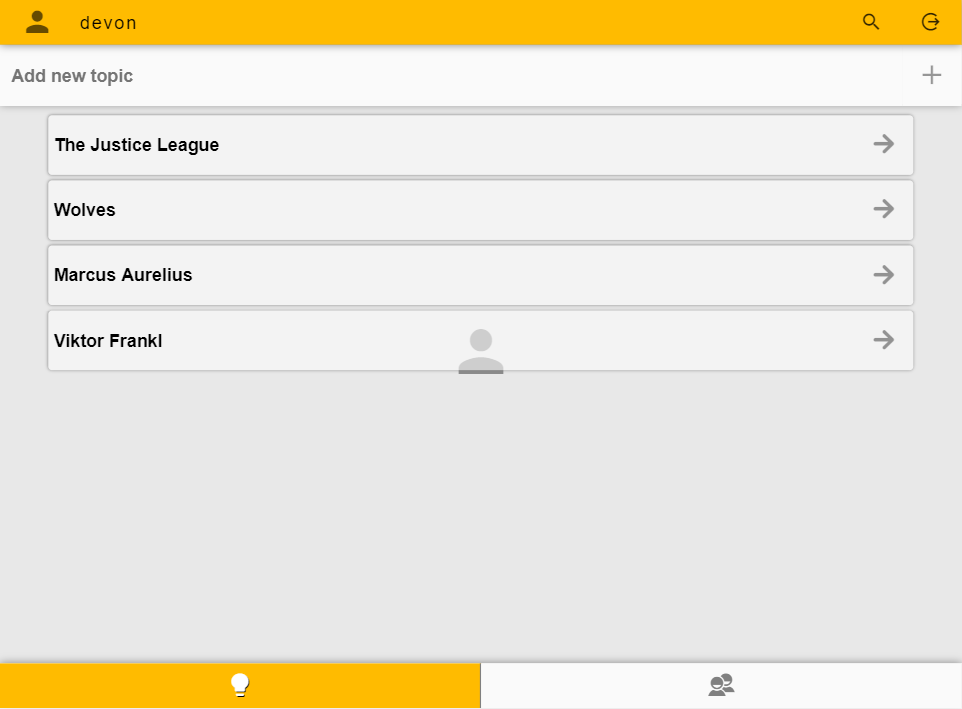
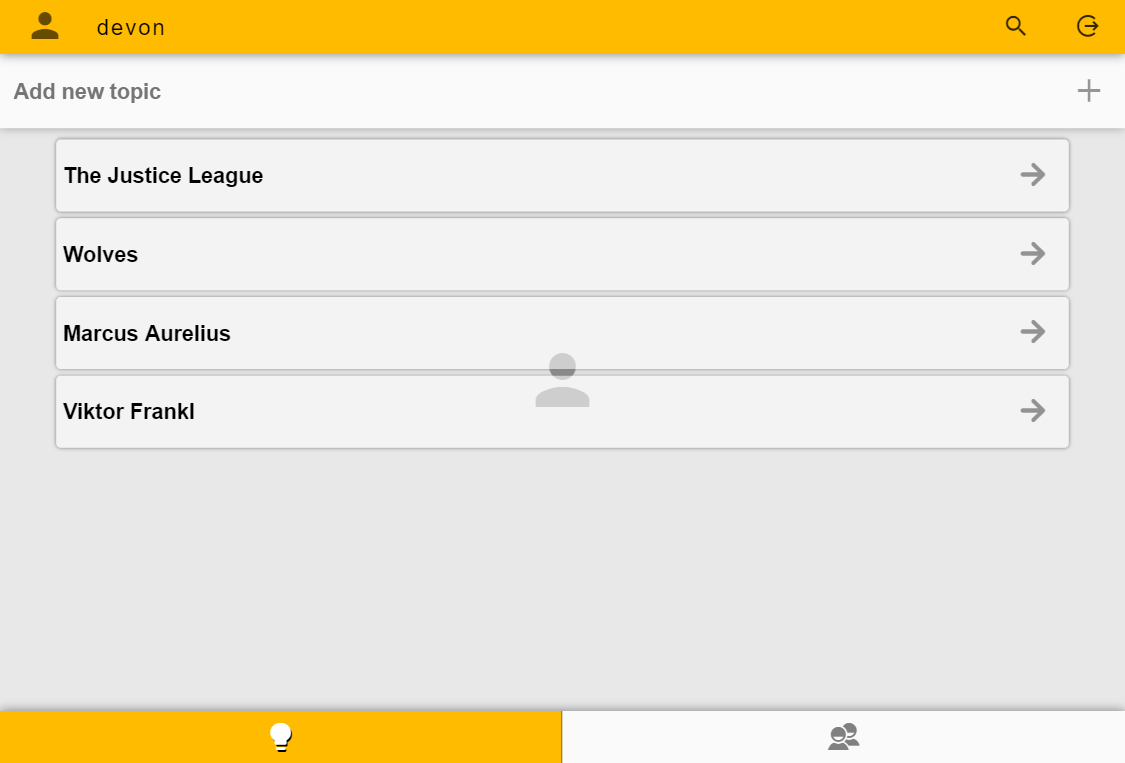
Update README.md

diff --git a/README.md b/README.md
@@ -2,42 +2,105 @@
 
 > A journaling app to document your varying pursuits of interest!
 
-![Adding a Topic in Noteable](/assets2/gif/AddTopic.gif)
+![Adding a Topic in Noteable](/assets2/gif/Showcase.gif)
+
+---
 
 ## Update (8/07/2018)
 > Noteable now features a back-end.
 
 
 ### New features
-- Make an account
+- Make an account (login/logout/signup)
 - View other users and what they're learning
 
-![Adding a Topic in Noteable](/assets/gif/AddTopicMobile.gif)
+---
 
-## Many Interests, One Place to Track Them <a name="priordocs" />
+## Many Interests, One Place to Track Them
+
+![Adding a Topic in Noteable](/assets2/gif/AddTopic.gif)
 
 It's no secret I carry notebooks in my backpack. Each one has a piece of tape on the front with a sharpie label: *[48 Laws of Power](https://en.wikipedia.org/wiki/The_48_Laws_of_Power)*, *React*, *[Self-Reliance](https://en.wikipedia.org/wiki/Self-Reliance)*, *Node*, etc.
 
-I'm a practitioner of **writing down findings related to my various topics of interest**. I feel like they stick better in my memory that way, and instead of trying to recall something from a vague page number and parsing through all the dense information, I can just reach for the appropriate notebook and scan through an organized list of notable findings.
+I'm a practitioner of **writing down findings related to my various topics of interest**. I feel like they stick better in my memory that way, and its way easier to backtrack to an idea you wrote down than to flip through pages in a book.
 
-Since I was already doing this with old-fashioned pen and paper, I figured why not **make an app to explore how to make this better**?
+Since I was already doing this with old-fashioned pen and paper, I figured why not **make an app to explore how to make this better?**
 
-### Create Topics
-![Noteable Dashboard](/assets/img/DashboardMobile.png)
+[Noteable](http://noteable1.herokuapp.com/) is the idea I came up with.
+
+---
+
+## How's it Work?
+### Topics
+![Noteable Dashboard](/assets2/img/Topics.png)
 
 **[Noteable](http://noteable1.herokuapp.com/)** starts with **Topics**.
 
-Got a new interest? Create a new **topic**.
+Got a new interest? Add a new **topic**.
 
-### Take Notes
+### Notes
 
-![Noteable Topic](/assets/img/TopicMobile.png)
+![Adding a note in Noteable](/assets2/gif/AddNote.gif)
 
-Scroll through the list of **notes** you've taken about the topic, or use the **search function** to narrow down what you're looking for.
+A note can be a **note** or a **list**.
 
-**Notes** can be in the form of **text** or a **list**, with or without a title (for further organization).
+---
 
-![Noteable Note](/assets/img/ListMobile.png)
+## User Authentication (8/07/2018 Update &darr; )
+![Signing up in Noteable](/assets2/gif/SignUp.gif)
+
+#### Make an account to:
+- maintain your notes across multiple devices
+- participate in the community of [Noteable](http://noteable1.herokuapp.com/) users
+
+
+## Community
+![Community in Noteable](/assets2/gif/Users.gif)
+#### Learning Together
+[Noteable](http://noteable1.herokuapp.com/) strives to be a place where **you** can jot down your thoughts and discoveries, but also where **friends** can keep up with each other's findings.
+
+Here's how [Noteable](http://noteable1.herokuapp.com/) plans to expand this idea in the near-future:
+- **Comment** on a friend's note to contribute to the idea, or just to let him/her know you like it!
+- Get **notified** when your friends add new notes.
+- Of course, the option to have **private topics** that are for your eyes only.
+
+---
+
+## The Technical Stuff
+[Noteable](http://noteable1.herokuapp.com/) was made using the **MERN stack**.
+- **M**ongoDB/Mongoose (tested with `mocha`)
+- **E**xpress
+- **R**eact/Redux
+- **N**ode
+
+The **front-end** was assembled from my [React-Redux starting template](https://github.com/devonbahary/react-redux-starter-template).
+
+The **back-end** was assembled from my [MERN stack starting template](https://github.com/devonbahary/mern-template).
+
+In this way, I've built and configured [Noteable](http://noteable1.herokuapp.com/) from scratch.
+
+#### MongoDB
+- 3 schemas (User, Topic, Note)
+- Custom validation (find duplicate element; O(n) complexity)
+- `bcrypt` hashed passwords so that sensitive data is never stored on the server
+- `jsonwebtoken` to validate user sessions
+
+
+#### Express
+- Custom authentication middleware for private routes
+- API endpoints at `/api/users` and `/api/notes`
+- Serves up client-side code for all other requests
+
+#### React/Redux
+- `axios` API calls from action generators
+- `redux-thunk` for asynchronous Redux actions
+
+#### Node
+- Client-side build with Webpack
+
+---
+
+## UI Design
 
 ### Modeling After Successful Implementations
 
@@ -45,33 +108,22 @@ Scroll through the list of **notes** you've taken about the topic, or use the **
 
 In fact, I've modeled **[Noteable](http://noteable1.herokuapp.com/)** after the UI design of **Google Keep**.
 
-![Comparison with Google Keep](/assets/img/SideBySide.png)
+![Comparison with Google Keep](/assets2/img/Wireframe1.png)
 
-Developing **[Noteable](http://noteable1.herokuapp.com/)** has been a fun exercise in taking a polished UI design and mocking it up from scratch.
+Developing **[Noteable](http://noteable1.herokuapp.com/)** has been a fun exercise in borrowing from a polished UI design and reiterating it from scratch.
 
-![Comparison with Google Keep](/assets/img/SideBySideNote.png)
+![Comparison with Google Keep](/assets2/img/Wireframe2.png)
 
-It's even been inspiring in moments when I found myself lacking artistic creativity (don't tell anyone, but I'm much better at copying from something pretty than reliably coming up with something pretty on my own)!
+---
 
+## Noteable vs. Google Keep
 
-### Making It My Own
+I've admitted to using **Google Keep**, but it functions best as a digital notepad.
 
-I've admitted to using **Google Keep**, but it functions best as a digital Post-it note collection rather than a means of **organizing disparate information**.
+With **Google Keep**, you're given one notepad and have the option to create endless notes.
 
-If you want to organize your information in **Google Keep** such that all notes related to one another is in one accessible place, your best bet is to keep **ALL** of that information in **ONE** note and title it appropriately.
+If you want to keep track of a large list of related information, your best bet is to title a note appropriately and overflow the note with all of that information.
 
-Clearly this gets **long** and **unparseable**.
+With **[Noteable](http://noteable1.herokuapp.com/)**, you're offered endless *notepads* (via Topics), and can make each note as arbitrarily concise or long as you'd like to.
 
-This inspired the idea of **topics** in **[Noteable](http://noteable1.herokuapp.com/)**, and is where **[Noteable](http://noteable1.herokuapp.com/)** takes its departure from **Google Keep**: each **topic** serves as a sort-of fresh page of **Google Keep**, and each **note** then serves as its own instance of information.
-
-This way **all my related information belongs in one topic**, but each note can serve as its own unit of information!
-
-### Where To Go From Here
-
-My girlfriend's recently far surpassed me in her book-reading: she's reading a whopping one book every month. I totally encourage this habit, and I find myself **benefiting from it too** because I ask her on a regular basis what interesting things she's learned from her last readings.
-
-And so it came to me: **what if you could share your findings with others as you came across them?**
-
-I think this could add a **social element** to **[Noteable](http://noteable1.herokuapp.com/)** for those who would be interested in opting in to it!
-- Give an interesting fact your friend just uploaded a **nod**, or even **write a message** in response to it!
-- Keep up to date with whatever your close circle is currently exploring and **learn together** in proximal collaboration!
+And now (8/07/2018), you can view what others are learning!
